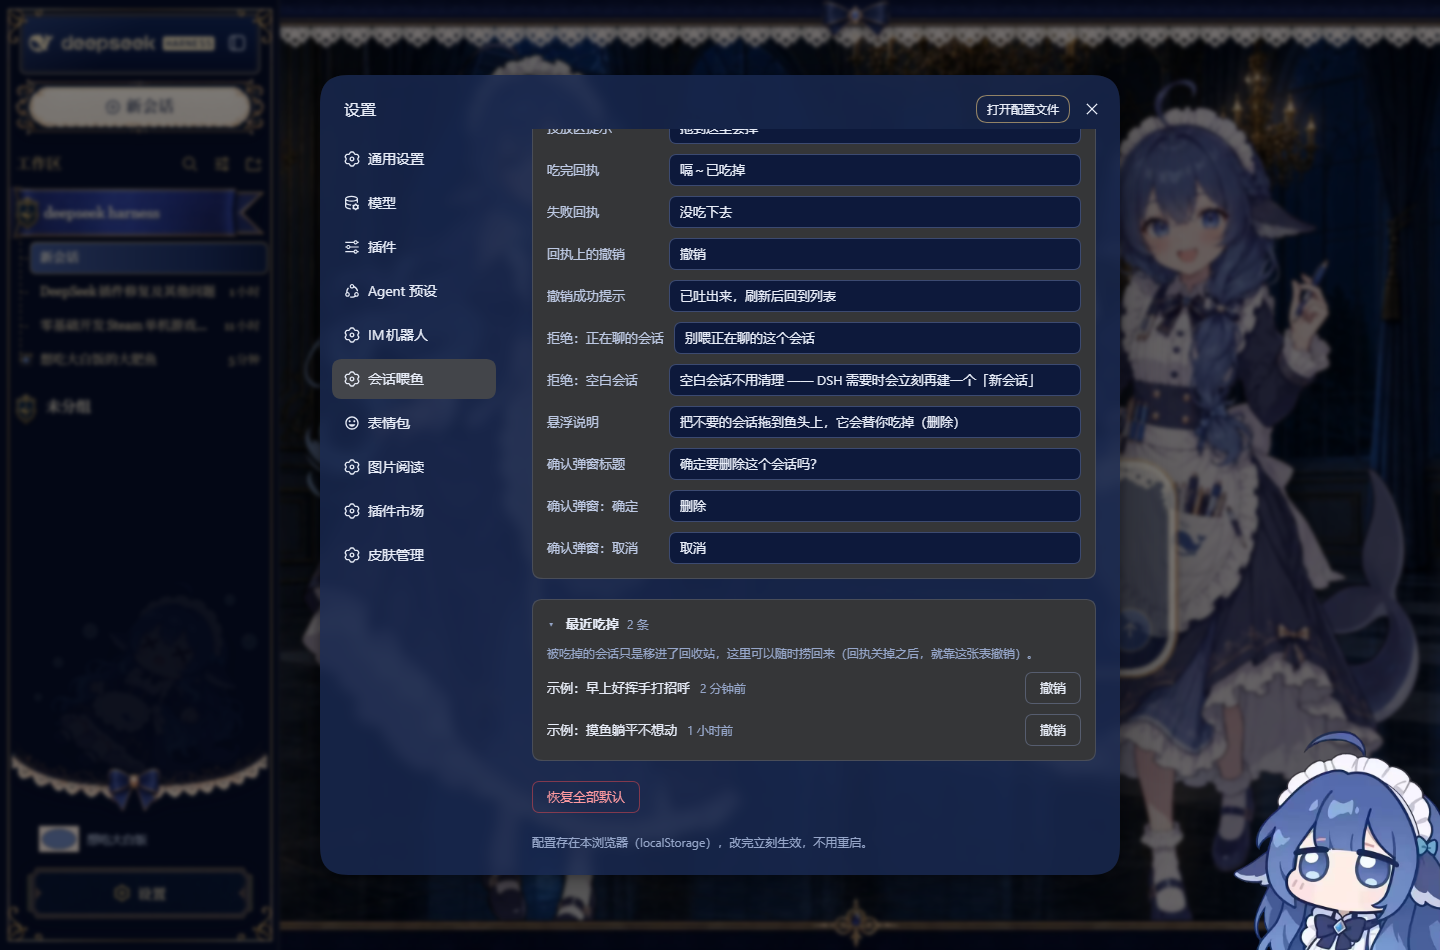
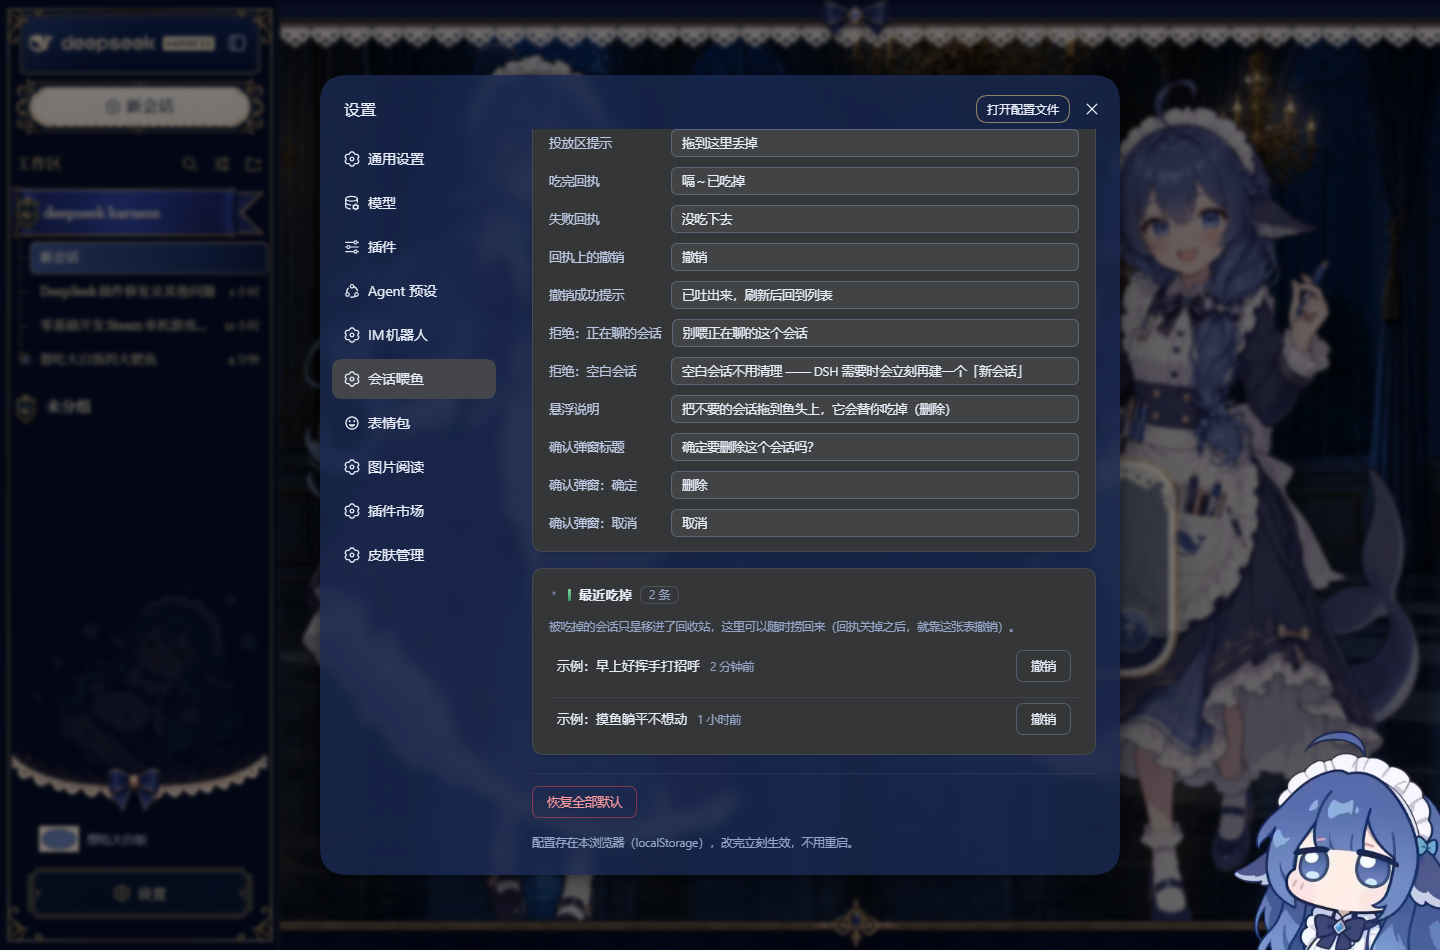
style(settings): 设置页美化（胶囊开关、卡片与标题竖条、折叠动画、配色走主题变量）

Changed region(s): [[0.375, 0.1221, 0.7812, 0.9158]]

diff --git a/lib/client.js b/lib/client.js
@@ -768,53 +768,105 @@ window.__ModuleLoader__.load({
 			`@keyframes dse-plate-in{from{opacity:0;transform:translateY(6px)}to{opacity:1;transform:translateY(0)}}`,
 
 			// 设置页
-			`.dse-cfg{display:flex;flex-direction:column;gap:20px;max-width:640px;`,
+			`.dse-cfg{display:flex;flex-direction:column;gap:16px;max-width:640px;`,
 			`color:var(--dsw-alias-label-primary,#e7ebf5);font-size:13px;line-height:20px}`,
-			`.dse-cfg-hint{color:var(--dsw-alias-label-tertiary,#9aa4bd);font-size:12px;line-height:18px}`,
-			`.dse-cfg-block{display:flex;flex-direction:column;gap:10px;padding:14px;border-radius:12px;`,
-			`border:1px solid var(--dsw-alias-border-l1,#2c3350);background:var(--dsw-alias-bg-module-platform,rgba(255,255,255,.02))}`,
-			`.dse-cfg-block > h3{margin:0;font-size:13px;font-weight:600;letter-spacing:.02em}`,
+			`.dse-cfg-hint{color:var(--dsw-alias-label-tertiary,#9aa4bd);font-size:11.5px;line-height:17px}`,
+			// 卡片：比面板底色亮一档，圆角大一点，边框柔一点
+			`.dse-cfg-block{display:flex;flex-direction:column;gap:11px;padding:14px 16px;border-radius:14px;`,
+			`border:1px solid color-mix(in srgb,var(--dsw-alias-border-l1,#2c3350) 80%,transparent);`,
+			`background:color-mix(in srgb,var(--dsw-alias-bg-module-platform,rgba(255,255,255,.02)) 100%,transparent);`,
+			`box-shadow:0 1px 2px rgba(0,0,0,.12)}`,
+			// 标题前面加一小段渐变竖条，扫读时能立刻分辨分组
+			`.dse-cfg-block > h3,.dse-cfg-fold-title{display:flex;align-items:center;gap:8px;margin:0;`,
+			`font-size:13px;font-weight:600;letter-spacing:.02em}`,
+			`.dse-cfg-block > h3::before,.dse-cfg-fold-title::before{content:"";flex:none;width:3px;height:12px;`,
+			`border-radius:2px;background:linear-gradient(180deg,#7fd6a0,#3d8f66)}`,
 			// 可折叠区块：标题整行可点，右侧带条数摘要；收起时正文不渲染
-			`.dse-cfg-fold{flex:1;min-width:0;display:flex;align-items:center;gap:8px;padding:0;`,
-			`background:transparent;border:none;color:inherit;font:inherit;cursor:pointer;text-align:left}`,
+			`.dse-cfg-fold{flex:1;min-width:0;display:flex;align-items:center;gap:8px;padding:2px 0;`,
+			`background:transparent;border:none;color:inherit;font:inherit;cursor:pointer;text-align:left;`,
+			`border-radius:8px;transition:color .15s}`,
 			`.dse-cfg-fold:hover .dse-cfg-fold-title{color:var(--dsw-alias-brand-primary,#7fd6a0)}`,
-			`.dse-cfg-fold:focus-visible{outline:2px solid #7fd6a0;outline-offset:2px;border-radius:6px}`,
-			`.dse-cfg-fold-caret{flex:none;width:11px;font-size:10px;color:var(--dsw-alias-label-tertiary,#9aa4bd)}`,
-			`.dse-cfg-fold-title{font-size:13px;font-weight:600;letter-spacing:.02em}`,
-			`.dse-cfg-fold-sum{flex:none;color:var(--dsw-alias-label-tertiary,#9aa4bd);font-size:12px}`,
-			`.dse-cfg-fold-body{display:flex;flex-direction:column;gap:10px}`,
+			`.dse-cfg-fold:focus-visible{outline:2px solid #7fd6a0;outline-offset:2px}`,
+			`.dse-cfg-fold-caret{flex:none;width:11px;font-size:10px;color:var(--dsw-alias-label-tertiary,#9aa4bd);`,
+			`transition:transform .18s ease}`,
+			`.dse-cfg-fold[aria-expanded="true"] .dse-cfg-fold-caret{transform:rotate(90deg)}`,
+			`.dse-cfg-fold-sum{flex:none;color:var(--dsw-alias-label-tertiary,#9aa4bd);font-size:11.5px;`,
+			`border:1px solid color-mix(in srgb,var(--dsw-alias-border-l2,#39415e) 70%,transparent);`,
+			`border-radius:999px;padding:0 8px;line-height:16px}`,
+			`.dse-cfg-fold-body{display:flex;flex-direction:column;gap:10px;animation:dse-fold-in .18s ease-out}`,
+			`@keyframes dse-fold-in{from{opacity:0;transform:translateY(-3px)}to{opacity:1;transform:none}}`,
 			`.dse-cfg-row{display:flex;align-items:center;gap:10px;flex-wrap:wrap}`,
 			`.dse-cfg-row > .dse-cfg-label{flex:none;min-width:74px;color:var(--dsw-alias-label-secondary,#c3cadd)}`,
 			`.dse-cfg-spacer{flex:1;min-width:0}`,
-			`.dse-cfg-seg{display:inline-flex;border:1px solid var(--dsw-alias-border-l2,#39415e);border-radius:9px;overflow:hidden}`,
+			// 分段控件
+			`.dse-cfg-seg{display:inline-flex;border:1px solid var(--dsw-alias-border-l2,#39415e);border-radius:9px;`,
+			`overflow:hidden;background:color-mix(in srgb,var(--dsw-alias-label-primary,#e7ebf5) 6%,transparent)}`,
 			`.dse-cfg-seg button{border:0;background:transparent;color:inherit;font:inherit;`,
-			`padding:5px 14px;cursor:pointer;opacity:.7}`,
-			`.dse-cfg-seg button[data-active="true"]{background:var(--dsw-alias-interactive-bg-hover,rgba(255,255,255,.08));opacity:1}`,
+			`padding:5px 14px;cursor:pointer;opacity:.66;transition:background .15s,opacity .15s}`,
+			`.dse-cfg-seg button:hover{opacity:.9}`,
+			`.dse-cfg-seg button[data-active="true"]{background:color-mix(in srgb,#7fd6a0 16%,transparent);`,
+			`color:#9fe8bb;opacity:1}`,
 			`.dse-cfg-seg button + button{border-left:1px solid var(--dsw-alias-border-l2,#39415e)}`,
+			// 按钮
 			`.dse-cfg-btn{border:1px solid var(--dsw-alias-border-l2,#39415e);background:transparent;color:inherit;`,
-			`font:inherit;border-radius:9px;padding:5px 14px;cursor:pointer}`,
+			`font:inherit;font-size:12.5px;border-radius:9px;padding:5px 14px;cursor:pointer;`,
+			`transition:background .15s,border-color .15s,transform .06s}`,
 			`.dse-cfg-btn:hover{background:var(--dsw-alias-interactive-bg-hover,rgba(255,255,255,.06))}`,
+			`.dse-cfg-btn:active{transform:translateY(1px)}`,
+			`.dse-cfg-btn:focus-visible{outline:2px solid #7fd6a0;outline-offset:2px}`,
 			`.dse-cfg-btn[data-kind="danger"]{color:#ff9aa0;border-color:rgba(229,72,77,.5)}`,
-			`.dse-cfg input[type="range"]{width:190px;accent-color:#7fd6a0}`,
+			`.dse-cfg-btn[data-kind="danger"]:hover{background:rgba(229,72,77,.12)}`,
+			// 滑块 + 右侧数值胶囊
+			`.dse-cfg input[type="range"]{width:190px;height:18px;accent-color:#7fd6a0;cursor:pointer;background:transparent}`,
+			`.dse-cfg-num{font-variant-numeric:tabular-nums;color:var(--dsw-alias-label-secondary,#c3cadd);`,
+			`font-size:11.5px;min-width:54px;text-align:center;border-radius:7px;padding:1px 6px;`,
+			`background:color-mix(in srgb,var(--dsw-alias-label-primary,#e7ebf5) 9%,transparent);`,
+			`border:1px solid color-mix(in srgb,var(--dsw-alias-border-l1,#2c3350) 70%,transparent)}`,
+			// 开关：把原生 checkbox 画成胶囊拨杆（a11y 不变，还是真 checkbox）
+			`.dse-cfg input[type="checkbox"]{-webkit-appearance:none;appearance:none;position:relative;flex:none;`,
+			`width:36px;height:20px;margin:0;border-radius:999px;cursor:pointer;`,
+			`background:var(--dsw-alias-border-l2,#39415e);transition:background .18s ease}`,
+			`.dse-cfg input[type="checkbox"]::after{content:"";position:absolute;top:2px;left:2px;width:16px;height:16px;`,
+			`border-radius:50%;background:#fff;box-shadow:0 1px 3px rgba(0,0,0,.4);transition:transform .18s ease}`,
+			`.dse-cfg input[type="checkbox"]:checked{background:#5cc98c}`,
+			`.dse-cfg input[type="checkbox"]:checked::after{transform:translateX(16px)}`,
+			`.dse-cfg input[type="checkbox"]:focus-visible{outline:2px solid #7fd6a0;outline-offset:2px}`,
+			// 输入框
 			`.dse-cfg input[type="text"],.dse-cfg input[type="url"]{flex:1;min-width:0;box-sizing:border-box;`,
-			`background:var(--dsw-alias-bg-base,transparent);border:1px solid var(--dsw-alias-border-l2,#39415e);`,
-			`border-radius:9px;padding:5px 10px;color:inherit;font:inherit}`,
-			`.dse-cfg-num{font-variant-numeric:tabular-nums;color:var(--dsw-alias-label-tertiary,#9aa4bd);min-width:52px;text-align:right}`,
+			`background:color-mix(in srgb,var(--dsw-alias-label-primary,#e7ebf5) 7%,transparent);`,
+			`border:1px solid var(--dsw-alias-border-l2,#39415e);`,
+			`border-radius:8px;padding:0 10px;height:28px;color:inherit;font:inherit;font-size:12.5px;`,
+			`transition:border-color .15s,box-shadow .15s}`,
+			`.dse-cfg input[type="text"]:focus,.dse-cfg input[type="url"]:focus{outline:none;border-color:#5cc98c;`,
+			`box-shadow:0 0 0 2px rgba(127,214,160,.18)}`,
+			`.dse-cfg input::placeholder{color:var(--dsw-alias-label-tertiary,#9aa4bd);opacity:.6}`,
 			`.dse-cfg-field{display:flex;align-items:center;gap:10px}`,
-			`.dse-cfg-field-label{flex:none;min-width:112px;color:var(--dsw-alias-label-secondary,#c3cadd)}`,
-			`.dse-cfg-field input[type="text"]{flex:1;min-width:0;box-sizing:border-box;`,
-			`background:var(--dsw-alias-bg-base,transparent);border:1px solid var(--dsw-alias-border-l2,#39415e);`,
-			`border-radius:9px;padding:5px 10px;color:inherit;font:inherit}`,
+			`.dse-cfg-field-label{flex:none;min-width:112px;color:var(--dsw-alias-label-secondary,#c3cadd);font-size:12.5px}`,
 			`.dse-cfg-blank{flex:none;font-size:11px;color:#ffb86b;border:1px solid rgba(255,184,107,.45);`,
-			`border-radius:6px;padding:0 6px}`,
-			`.dse-cfg-eaten{display:flex;align-items:center;gap:10px;min-width:0}`,
+			`border-radius:999px;padding:0 7px}`,
+			// 台账行：一行一条，行间细分隔线
+			`.dse-cfg-eaten{display:flex;align-items:center;gap:10px;min-width:0;padding:5px 8px;border-radius:9px;`,
+			`transition:background .15s}`,
+			`.dse-cfg-eaten:hover{background:var(--dsw-alias-interactive-bg-hover,rgba(255,255,255,.05))}`,
+			`.dse-cfg-eaten + .dse-cfg-eaten{border-top:1px solid color-mix(in srgb,var(--dsw-alias-border-l1,#2c3350) 55%,transparent);`,
+			`border-radius:0 0 9px 9px}`,
 			`.dse-cfg-eaten-title{flex:0 1 auto;min-width:0;overflow:hidden;text-overflow:ellipsis;`,
 			`white-space:nowrap;color:var(--dsw-alias-label-primary,#e7ebf5)}`,
+			`.dse-cfg-empty{display:flex;align-items:center;gap:8px;justify-content:center;padding:12px 0;`,
+			`color:var(--dsw-alias-label-tertiary,#9aa4bd);font-size:12px}`,
+			// 底部：和上面用一条分隔线断开
+			`.dse-cfg-footer{border-top:1px solid color-mix(in srgb,var(--dsw-alias-border-l1,#2c3350) 55%,transparent);`,
+			`padding-top:12px;margin-top:2px}`,
 			`.dse-cfg-stage-wrap{display:flex;gap:16px;align-items:flex-start;flex-wrap:wrap}`,
+			// 预览台：径向高光 + 极淡棋盘格（这样能看出自定义图的透明区域）
 			`.dse-cfg-stage{position:relative;flex:none;border-radius:14px;box-sizing:border-box;`,
 			`border:1px dashed var(--dsw-alias-border-l3,#4a5578);touch-action:none;cursor:crosshair;`,
-			`background:radial-gradient(circle at 50% 40%,rgba(127,214,160,.07),transparent 70%)}`,
-			`.dse-cfg-stage[data-drop="true"]{border-color:#7fd6a0;background:rgba(127,214,160,.1)}`,
+			`background-image:radial-gradient(circle at 50% 40%,rgba(127,214,160,.07),transparent 70%),`,
+			`linear-gradient(45deg,rgba(255,255,255,.028) 25%,transparent 25%,transparent 75%,rgba(255,255,255,.028) 75%),`,
+			`linear-gradient(45deg,rgba(255,255,255,.028) 25%,transparent 25%,transparent 75%,rgba(255,255,255,.028) 75%);`,
+			`background-size:auto,16px 16px,16px 16px;background-position:0 0,0 0,8px 8px;`,
+			`transition:border-color .15s,background-color .15s}`,
+			`.dse-cfg-stage[data-drop="true"]{border-color:#7fd6a0;background-color:rgba(127,214,160,.1)}`,
 			`.dse-cfg-stage-pet{position:absolute;left:50%;top:50%;transform:translate(-50%,-50%)}`,
 			`.dse-cfg-cross{position:absolute;width:14px;height:14px;margin:-7px 0 0 -7px;border-radius:50%;`,
 			`border:1.5px solid #7fd6a0;box-shadow:0 0 0 1px rgba(0,0,0,.5);pointer-events:none}`,
@@ -827,7 +879,7 @@ window.__ModuleLoader__.load({
 			`border:1px solid var(--dsw-alias-border-l1,#2c3350);background:rgba(0,0,0,.25)}`,
 
 			`@media (prefers-reduced-motion:reduce){`,
-			`.dse-pet,.dse-mouth,.dse-pet::after,.dse-plate,.dse-toast{animation:none!important}}`
+			`.dse-pet,.dse-mouth,.dse-pet::after,.dse-plate,.dse-toast,.dse-cfg-fold-body{animation:none!important}}`
 		].join("");
 
 		function ensureCss() {
@@ -1383,7 +1435,8 @@ window.__ModuleLoader__.load({
 							"aria-expanded": open ? "true" : "false",
 							onClick: onToggle,
 							children: [
-								jsx("span", { className: "dse-cfg-fold-caret", children: open ? "▾" : "▸" }),
+								// 箭头固定用 ▸，展开时由 CSS 转 90°（比换字形平滑）
+								jsx("span", { className: "dse-cfg-fold-caret", children: "▸" }),
 								jsx("span", { className: "dse-cfg-fold-title", children: title }),
 								summary ? jsx("span", { className: "dse-cfg-fold-sum", children: summary }) : null
 							]
@@ -1776,7 +1829,7 @@ window.__ModuleLoader__.load({
 									+ "（回执关掉之后，就靠这张表撤销）。"
 							}),
 							eaten.length === 0
-								? jsx("div", { key: "empty", className: "dse-cfg-hint", children: "还没有吃掉任何会话。" })
+								? jsx("div", { key: "empty", className: "dse-cfg-empty", children: "🐟 还没有吃掉任何会话" })
 								: eaten.map((item) => jsxs("div", {
 									className: "dse-cfg-eaten",
 									key: item.sessionId,
@@ -1800,7 +1853,7 @@ window.__ModuleLoader__.load({
 						]
 					}),
 
-					jsxs("div", { className: "dse-cfg-row", children: [
+					jsxs("div", { className: "dse-cfg-row dse-cfg-footer", children: [
 						jsx("button", {
 							type: "button",
 							className: "dse-cfg-btn",

diff --git a/CHANGELOG.md b/CHANGELOG.md
@@ -2,6 +2,18 @@
 
 ## 未发布
 
+- **美化**：设置页整体收拾了一遍 ——
+  - 卡片：圆角 14px、内边距 14/16、柔和描边 + 1px 投影（原来 12px 圆角 + 硬边框）
+  - 每个区块标题前加 **3px 渐变竖条**，扫读时一眼分辨分组
+  - **开关改成胶囊拨杆**（原生 checkbox 用 `appearance:none` 重画，a11y 与点击行为不变；选中变绿、白点滑过去）
+  - 折叠标题：箭头固定 `▸`、展开时 CSS 转 90°（不再换字形），摘要做成小胶囊，展开带 180ms 淡入
+  - 滑块右侧数值改成等宽胶囊；输入框统一 28px 高、聚焦有绿色描边；分段控件选中态用品牌绿
+  - 台账每行加悬停高亮与行间细分隔线；空态改成居中的「🐟 还没有吃掉任何会话」
+  - 底部「恢复全部默认」用一条分隔线断开；预览台加极淡棋盘格（能看出自定义图的透明区域）
+  - 配色全走主题变量（tint 用 `label-primary` 调），**浅色主题不会发黑**
+
+## 未发布
+
 - **新增**：设置页**可折叠区块**。「文案」（15 段）和「最近吃掉」（最多 12 条）太长，
   现在默认收起、点标题展开，标题右侧给 `15 段` / `2 条` 这样的摘要；**收起时正文不渲染**
   （不是藏起来），设置页一眼能看全。展开状态记在 `config.ui.open` 里，刷新后保持。
